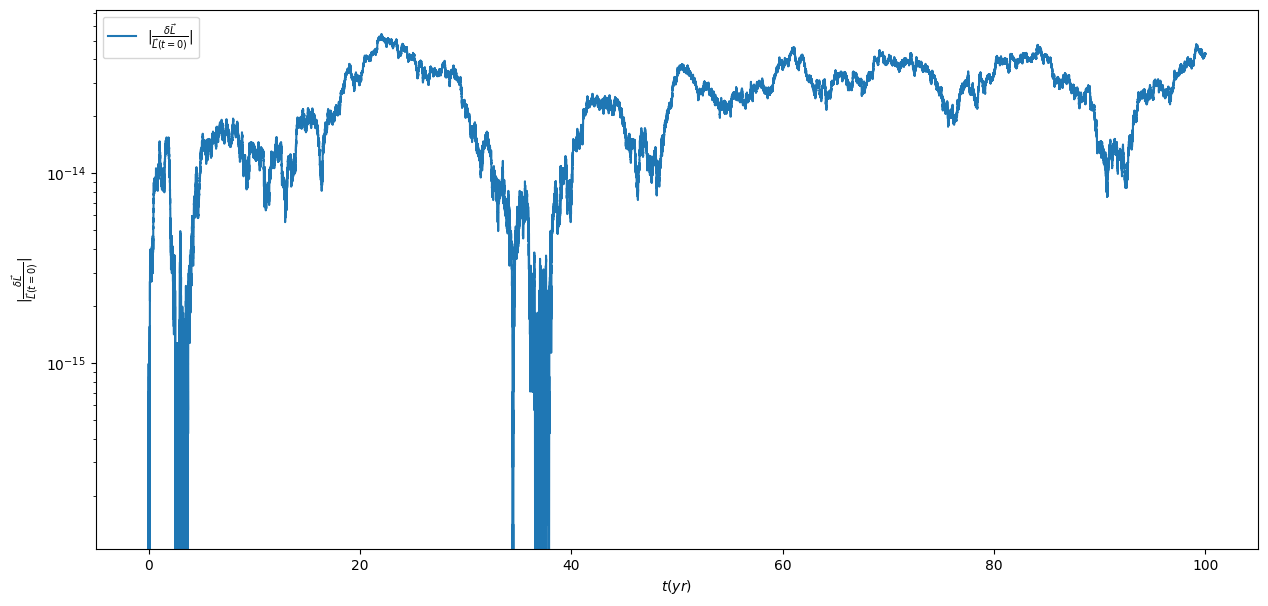
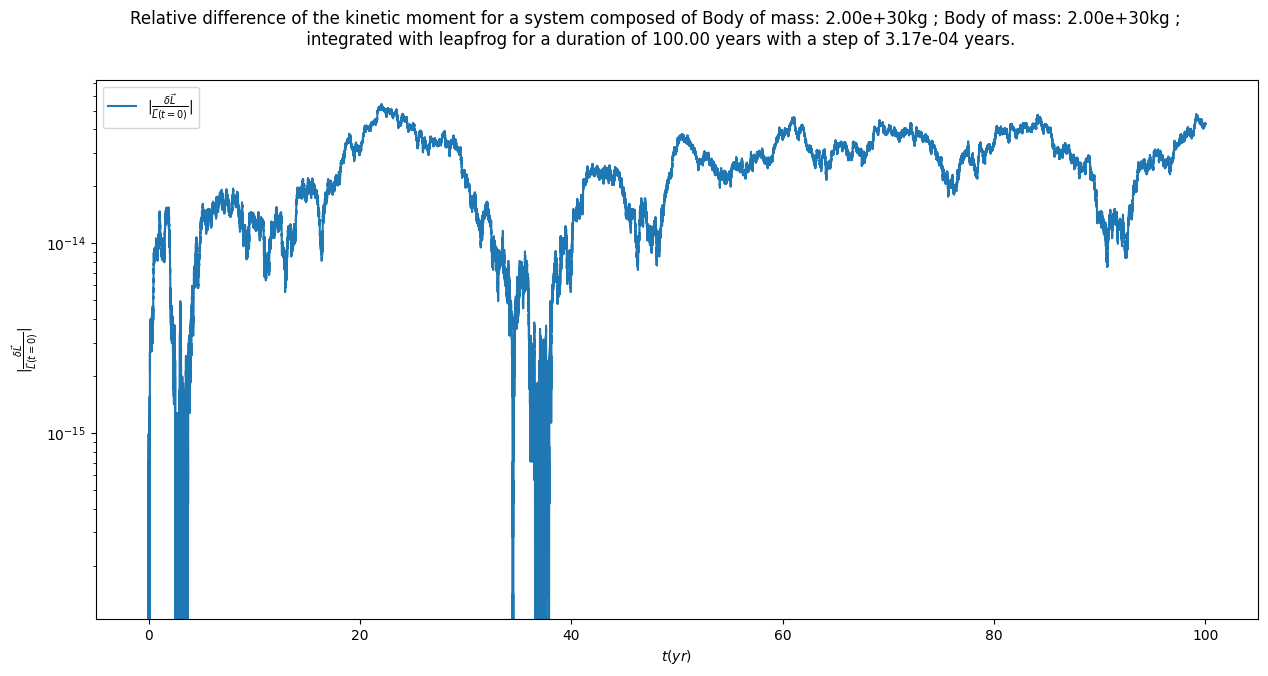
add description to display, coplanar 3 bodies with test mass

diff --git a/lib/plots.py b/lib/plots.py
@@ -92,7 +92,7 @@ class DynamicUpdate():
             self.fig.savefig("tmp/{0:06d}.png".format(step),bbox_inches="tight")
     
     def close(self):
-        self.fig.close()
+        plt.close()
 
     #Example
     def __call__(self):
@@ -117,7 +117,7 @@ def display_parameters(E,L,parameters,savename=""):
     bodies = ""
     for body in dyn_syst.bodylist:
         bodies += str(body)+" ; "
-    title = "Relative difference of the {} "+"for a system composed of {0:s} \nintegrated with {1:s} for a duration of {2:.2f} years with a step of {3:.2e} years.".format(bodies, integrator, duration/yr, step/yr)
+    title = "Relative difference of the {} "+"for a system composed of {0:s}\n integrated with {1:s} for a duration of {2:.2f} years with a step of {3:.2e} years.".format(bodies, integrator, duration/yr, step/yr)
     fig1 = plt.figure(figsize=(15,7))
     ax1 = fig1.add_subplot(111)
     ax1.plot(np.arange(E.shape[0])*step/yr, np.abs((E-E[0])/E[0]), label=r"$\left|\frac{\delta E_m}{E_m(t=0)}\right|$")

diff --git a/main.py b/main.py
@@ -25,16 +25,16 @@ def main():
     v = np.array([v1, v2, v3])
 
     bodylist = []
-    for i in range(2):
+    for i in range(3):
         bodylist.append(Body(m[i], q[i], v[i]))
     dyn_syst = System(bodylist)
     dyn_syst.COMShift()
 
     duration, step = 100*yr, 1e4
-    #E, L = dyn_syst.leapfrog(duration, step, recover_param=True)#, display=True)
-    E, L = dyn_syst.hermite(duration,step, recover_param=True)#, display=True)
+    #E, L = dyn_syst.leapfrog(duration, step, recover_param=True, display=True)
+    E, L = dyn_syst.hermite(duration,step, recover_param=True, display=True)
     parameters = [duration, step, dyn_syst, "hermite"]
-    display_parameters(E, L, parameters=parameters, savename="2bodies_hermite")
+    display_parameters(E, L, parameters=parameters, savename="3bodies_hermite")
 
     return 0
 
